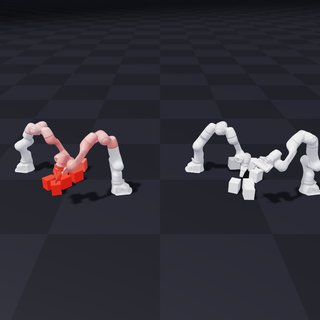
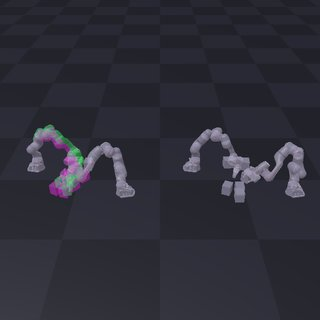
Overlay the copies of each mode in the Steel determinism examples
Draw both copies of each mode at one place, one magenta and one green,
at half opacity through the viewer's shape opacity. Copies that agree
blend into one gray body; copies that diverge come apart into two
colored ghosts. The default pair stays on the left and the
deterministic pair on the right.

Colors and opacities are set once on the display model, so the
per-frame color kernel is gone. A small UI panel lists the largest
body distance of each mode next to the existing plots. Cameras,
README screenshots and the changelog fragment follow the new view.

diff --git a/newton/examples/steel/_determinism.py b/newton/examples/steel/_determinism.py
@@ -11,57 +11,40 @@ import warp as wp
 import newton
 from newton.solvers import SolverSteel
 
-# Bodies whose copies differ by this much [m] or more are drawn fully in DIVERGED_COLOR.
-DIVERGENCE_COLOR_MAX = 1.0e-2
-# Divergence below this [m] keeps BODY_COLOR; the ramp is logarithmic in between.
-DIVERGENCE_COLOR_MIN = 1.0e-6
-BODY_COLOR = (0.78, 0.78, 0.8)
-DIVERGED_COLOR = (0.93, 0.2, 0.15)
+# Each mode draws its two copies at one place, magenta and green and half transparent:
+# coincident copies blend to one gray body, diverging copies split into two colored ghosts.
+COPY_COLORS = ((0.9, 0.2, 0.8), (0.2, 0.8, 0.3))
+COPY_OPACITY = 0.5
 
 
 @wp.kernel(enable_backward=False)
-def compare_copies(
+def show_copies(
     body_q_a: wp.array[wp.transform],
     body_q_b: wp.array[wp.transform],
+    side_offset: wp.vec3,
     display_body_offset: int,
+    divergence_offset: int,
     display_body_q: wp.array[wp.transform],
     body_divergence: wp.array[wp.float32],
 ):
-    """Show copy A of one mode and record how far each of its bodies is from copy B."""
+    """Place both copies of one mode at its side of the view and record how far apart each body is."""
     body_id = wp.tid()
-    display_body_q[display_body_offset + body_id] = body_q_a[body_id]
-    delta = wp.transform_get_translation(body_q_a[body_id]) - wp.transform_get_translation(body_q_b[body_id])
-    body_divergence[display_body_offset + body_id] = wp.length(delta)
-
-
-@wp.kernel(enable_backward=False)
-def color_by_divergence(
-    shape_body: wp.array[wp.int32],
-    body_divergence: wp.array[wp.float32],
-    default_color: wp.array[wp.vec3],
-    body_color: wp.vec3,
-    diverged_color: wp.vec3,
-    log_min: float,
-    log_max: float,
-    shape_color: wp.array[wp.vec3],
-):
-    """Blend each body's shapes from ``body_color`` toward ``diverged_color`` with the log of its divergence."""
-    shape_id = wp.tid()
-    body_id = shape_body[shape_id]
-    if body_id < 0:
-        shape_color[shape_id] = default_color[shape_id]
-        return
-    weight = float(0.0)
-    divergence = body_divergence[body_id]
-    if divergence > 0.0:
-        weight = wp.clamp((wp.log10(divergence) - log_min) / (log_max - log_min), 0.0, 1.0)
-    shape_color[shape_id] = wp.lerp(body_color, diverged_color, weight)
+    body_count = body_q_a.shape[0]
+    q_a = body_q_a[body_id]
+    q_b = body_q_b[body_id]
+    p_a = wp.transform_get_translation(q_a)
+    p_b = wp.transform_get_translation(q_b)
+    display_body_q[display_body_offset + body_id] = wp.transform(p_a + side_offset, wp.transform_get_rotation(q_a))
+    display_body_q[display_body_offset + body_count + body_id] = wp.transform(
+        p_b + side_offset, wp.transform_get_rotation(q_b)
+    )
+    body_divergence[divergence_offset + body_id] = wp.length(p_a - p_b)
 
 
 class DeterminismExample:
-    """Step one scene in two default and two deterministic Steel copies and show how the copies drift apart.
+    """Step one scene in two default and two deterministic Steel copies and overlay the copies of each mode.
 
-    The default copies are drawn on the left and the deterministic copies on the right; subclasses
+    The default pair is drawn on the left and the deterministic pair on the right; subclasses
     provide the scene and may override :meth:`apply_control`.
     """
 
@@ -70,7 +53,7 @@ class DeterminismExample:
         viewer,
         scene: newton.ModelBuilder,
         solver_options: dict,
-        copy_spacing: tuple[float, float, float],
+        side_offset: tuple[float, float, float],
         camera: dict,
     ):
         self.viewer = viewer
@@ -92,19 +75,23 @@ class DeterminismExample:
         # Every copy reads the same control so the copies only differ by how they were simulated.
         self.control = self.copies["default"][0].model.control()
 
+        # The default pair sits at -side_offset and the deterministic pair at +side_offset.
+        self.side_offsets = [wp.vec3(*side_offset) * sign for sign in (-1.0, 1.0)]
         display = newton.ModelBuilder()
-        display.replicate(scene, 2)
+        for offset in self.side_offsets:
+            for color in COPY_COLORS:
+                first_shape = display.shape_count
+                display.add_builder(scene, xform=wp.transform(offset, wp.quat_identity()))
+                for shape in range(first_shape, display.shape_count):
+                    display.shape_color[shape] = color
+                    display.shape_opacity[shape] = COPY_OPACITY
         display.add_ground_plane()
         self.model = display.finalize()
         self.state_0 = self.model.state()
-        self.body_divergence = wp.zeros(self.model.body_count, dtype=wp.float32)
-        self.default_shape_color = wp.clone(self.model.shape_color)
-        self.body_color = wp.vec3(*BODY_COLOR)
-        self.diverged_color = wp.vec3(*DIVERGED_COLOR)
+        self.body_divergence = wp.zeros(2 * self.scene_body_count, dtype=wp.float32)
         self.max_divergence = {"default": 0.0, "deterministic": 0.0}
 
         self.viewer.set_model(self.model)
-        self.viewer.set_world_offsets(copy_spacing)
         self.viewer.set_camera(**camera)
 
         self.capture()
@@ -134,30 +121,22 @@ class DeterminismExample:
         self.sim_time += self.frame_dt
         for mode_id, (copy_a, copy_b) in enumerate(self.copies.values()):
             wp.launch(
-                compare_copies,
+                show_copies,
                 dim=self.scene_body_count,
-                inputs=[copy_a.state_0.body_q, copy_b.state_0.body_q, mode_id * self.scene_body_count],
+                inputs=[
+                    copy_a.state_0.body_q,
+                    copy_b.state_0.body_q,
+                    self.side_offsets[mode_id],
+                    2 * mode_id * self.scene_body_count,
+                    mode_id * self.scene_body_count,
+                ],
                 outputs=[self.state_0.body_q, self.body_divergence],
             )
         divergence = self.body_divergence.numpy().reshape(2, self.scene_body_count).max(axis=1)
         self.max_divergence = dict(zip(self.copies, (float(d) for d in divergence), strict=True))
 
     def render(self):
-        """Draw copy A of each mode, colored by how far its bodies are from copy B."""
-        wp.launch(
-            color_by_divergence,
-            dim=self.model.shape_count,
-            inputs=[
-                self.model.shape_body,
-                self.body_divergence,
-                self.default_shape_color,
-                self.body_color,
-                self.diverged_color,
-                float(np.log10(DIVERGENCE_COLOR_MIN)),
-                float(np.log10(DIVERGENCE_COLOR_MAX)),
-            ],
-            outputs=[self.model.shape_color],
-        )
+        """Draw both copies of each mode overlaid, the default pair left and the deterministic pair right."""
         self.viewer.begin_frame(self.sim_time)
         self.viewer.log_state(self.state_0)
         self.viewer.log_scalar("Default copies, max divergence [mm]", 1.0e3 * self.max_divergence["default"])
@@ -165,6 +144,13 @@ class DeterminismExample:
             "Deterministic copies, max divergence [mm]", 1.0e3 * self.max_divergence["deterministic"]
         )
         self.viewer.end_frame()
+
+    def gui(self, ui):
+        """Show the largest body distance between the two copies of each mode."""
+        ui.text("Left: default, right: deterministic")
+        ui.text("Copies in magenta and green, gray where they coincide")
+        for mode, divergence in self.max_divergence.items():
+            ui.text(f"{mode.capitalize()} max distance: {1.0e3 * divergence:.3f} mm")
 
     def test_final(self):
         """Verify every copy is finite, no copy dropped constraint rows and the deterministic copies are bitwise equal."""

diff --git a/newton/examples/steel/example_steel_determinism_arms.py b/newton/examples/steel/example_steel_determinism_arms.py
@@ -9,10 +9,11 @@
 # initial state and with the same joint targets: two copies with Steel's
 # default settings (left) and two with
 # deterministic=wp.DeterministicMode.RUN_TO_RUN and
-# CollisionPipeline(deterministic=True) (right). Each side draws its first
-# copy, with bodies turning red as they drift away from the second copy.
-# The default copies push the boxes to different places; the deterministic
-# copies stay bitwise identical.
+# CollisionPipeline(deterministic=True) (right). Each side overlays its two
+# copies at one place, one magenta and one green, both half transparent.
+# The default copies push the boxes to different places and come apart
+# into two ghosts; the deterministic copies stay bitwise identical and
+# blend into one gray scene.
 #
 # Command: python -m newton.examples steel_determinism_arms
 #
@@ -99,8 +100,8 @@ class Example(DeterminismExample):
                 "articulation_constraint_max": 384,
                 "free_body_constraint_max": 128,
             },
-            copy_spacing=(0.0, 2.0, 0.0),
-            camera={"pos": wp.vec3(2.6, 0.0, 1.3), "pitch": -24.0, "yaw": 180.0},
+            side_offset=(0.0, 1.0, 0.0),
+            camera={"pos": wp.vec3(2.7, 0.0, 1.3), "pitch": -20.0, "yaw": 180.0},
         )
 
     def apply_control(self, step_index):

diff --git a/newton/examples/steel/example_steel_determinism_pile.py b/newton/examples/steel/example_steel_determinism_pile.py
@@ -8,10 +8,11 @@
 # scene four times in one process from the same initial state: two copies
 # with Steel's default settings (left) and two with
 # deterministic=wp.DeterministicMode.RUN_TO_RUN and
-# CollisionPipeline(deterministic=True) (right). Each side draws its first
-# copy, with bodies turning red as they drift away from the second copy.
-# The default copies split within a few steps; the deterministic copies
-# stay bitwise identical.
+# CollisionPipeline(deterministic=True) (right). Each side overlays its two
+# copies at one place, one magenta and one green, both half transparent.
+# The default copies split into two ghosts within a few steps; the
+# deterministic copies stay bitwise identical and blend into one gray
+# scene.
 #
 # Command: python -m newton.examples steel_determinism_pile
 #
@@ -66,8 +67,8 @@ class Example(DeterminismExample):
                 "articulation_constraint_max": 384,
                 "free_body_constraint_max": 128,
             },
-            copy_spacing=(3.5, 0.0, 0.0),
-            camera={"pos": wp.vec3(0.0, -4.6, 2.2), "pitch": -24.0, "yaw": 90.0},
+            side_offset=(1.9, 0.0, 0.0),
+            camera={"pos": wp.vec3(0.2, -5.6, 2.2), "pitch": -18.0, "yaw": 90.0},
         )
 
 

diff --git a/changelog/+steel-determinism-examples-3f9a1c62.added.md b/changelog/+steel-determinism-examples-3f9a1c62.added.md
@@ -1,1 +1,1 @@
-Add the `steel_determinism_arms` and `steel_determinism_pile` examples, which step one scene in two default and two `SolverSteel(deterministic=wp.DeterministicMode.RUN_TO_RUN)` copies and color each body by how far its copies drift apart.
+Add the `steel_determinism_arms` and `steel_determinism_pile` examples, which step one scene in two default and two `SolverSteel(deterministic=wp.DeterministicMode.RUN_TO_RUN)` copies and overlay the two copies of each mode, so diverging copies show as ghosts.
